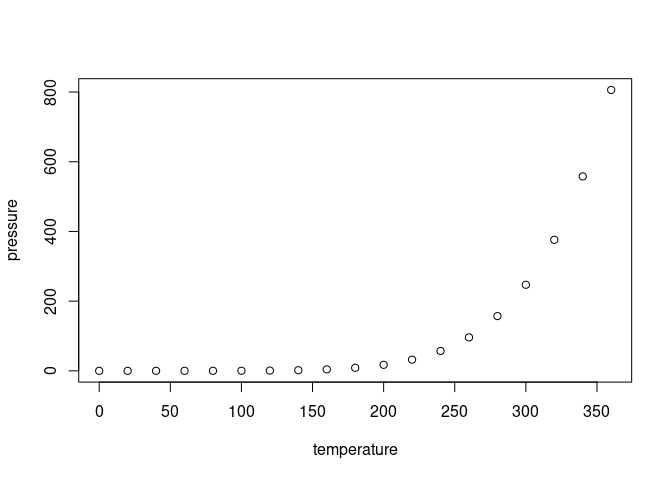
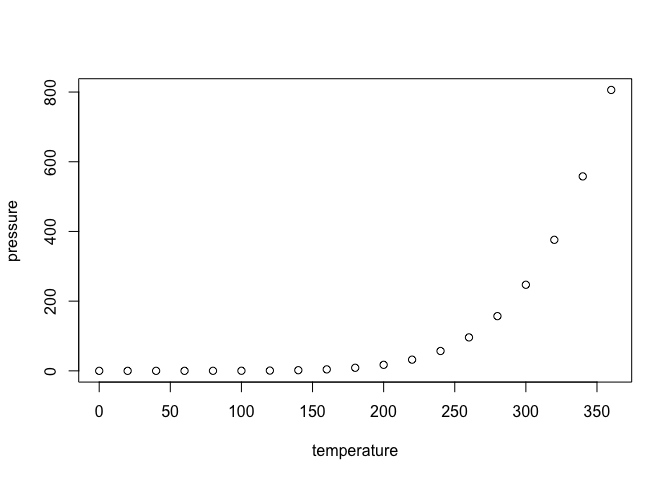
Updated readme.

diff --git a/README.md b/README.md
@@ -4,9 +4,14 @@
 # SPIAT3D
 
 <!-- badges: start -->
+
 <!-- badges: end -->
 
-The goal of SPIAT3D is to …
+The goal of SPIAT3D (**SP**atial **I**mage **A**nalysis of **T**issues
+**3D**) is to comprehensively analyse 3D spatial tissue data. SPIAT3D
+does this through a diverse range of spatial metrics which fully exploit
+the x, y, z and cell type identity. These include 3D cell colocalization
+metrics, spatial heterogeneity metrics and clustering algorithms.
 
 ## Installation
 
@@ -14,39 +19,16 @@ You can install the development version of SPIAT3D from
 [GitHub](https://github.com/) with:
 
 ``` r
-# install.packages("devtools")
+install.packages("devtools")
 devtools::install_github("TrigosTeam/SPIAT3D")
+
+if (!requireNamespace("BiocManager", quietly = TRUE))     
+  install.packages("BiocManager")
+BiocManager::install("SpatialExperiment")
 ```
 
-## Example
+## Vignette
 
-This is a basic example which shows you how to solve a common problem:
-
-``` r
-library(SPIAT3D)
-## basic example code
-```
-
-What is special about using `README.Rmd` instead of just `README.md`?
-You can include R chunks like so:
-
-``` r
-summary(cars)
-#>      speed           dist       
-#>  Min.   : 4.0   Min.   :  2.00  
-#>  1st Qu.:12.0   1st Qu.: 26.00  
-#>  Median :15.0   Median : 36.00  
-#>  Mean   :15.4   Mean   : 42.98  
-#>  3rd Qu.:19.0   3rd Qu.: 56.00  
-#>  Max.   :25.0   Max.   :120.00
-```
-
-You’ll still need to render `README.Rmd` regularly, to keep `README.md`
-up-to-date. `devtools::build_readme()` is handy for this.
-
-You can also embed plots, for example:
-
-<img src="man/figures/README-pressure-1.png" width="100%" />
-
-In that case, don’t forget to commit and push the resulting figure
-files, so they display on GitHub and CRAN.
+The vignette with an overview of the package can be accessed from the
+top Menu under About or clicking
+[here](https://tenor.com/en-AU/view/bye-gif-13631410119550334366).